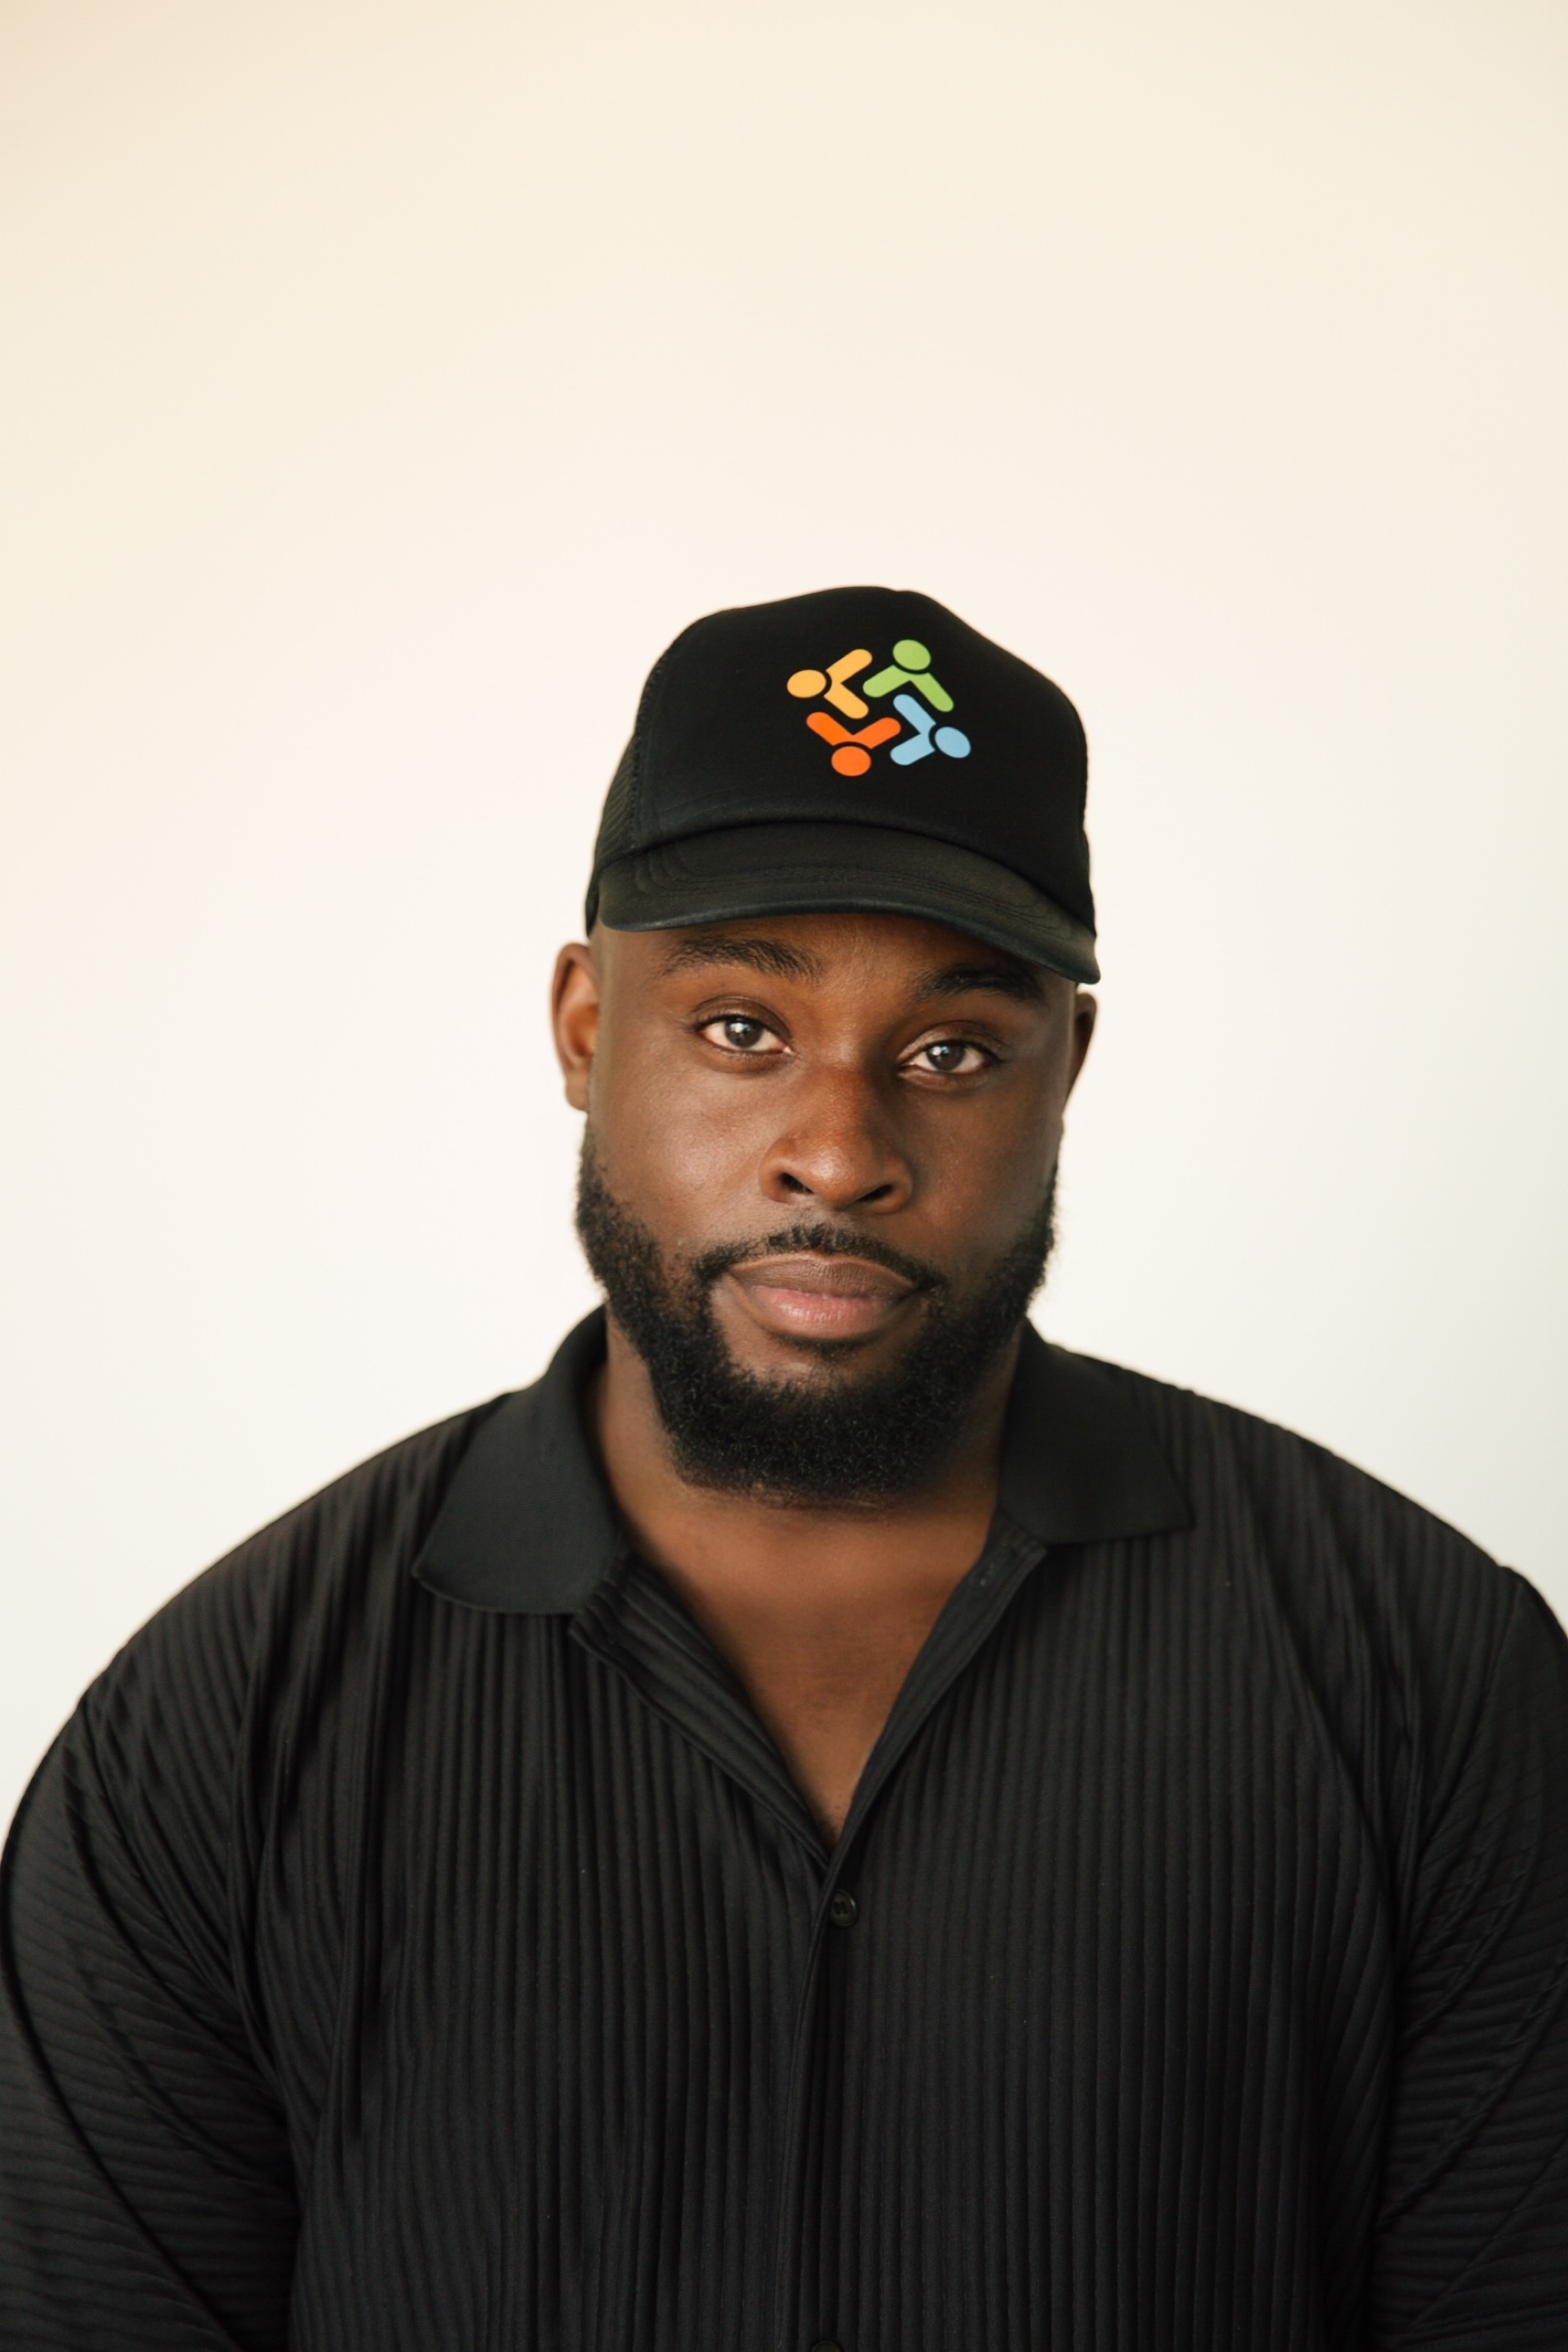
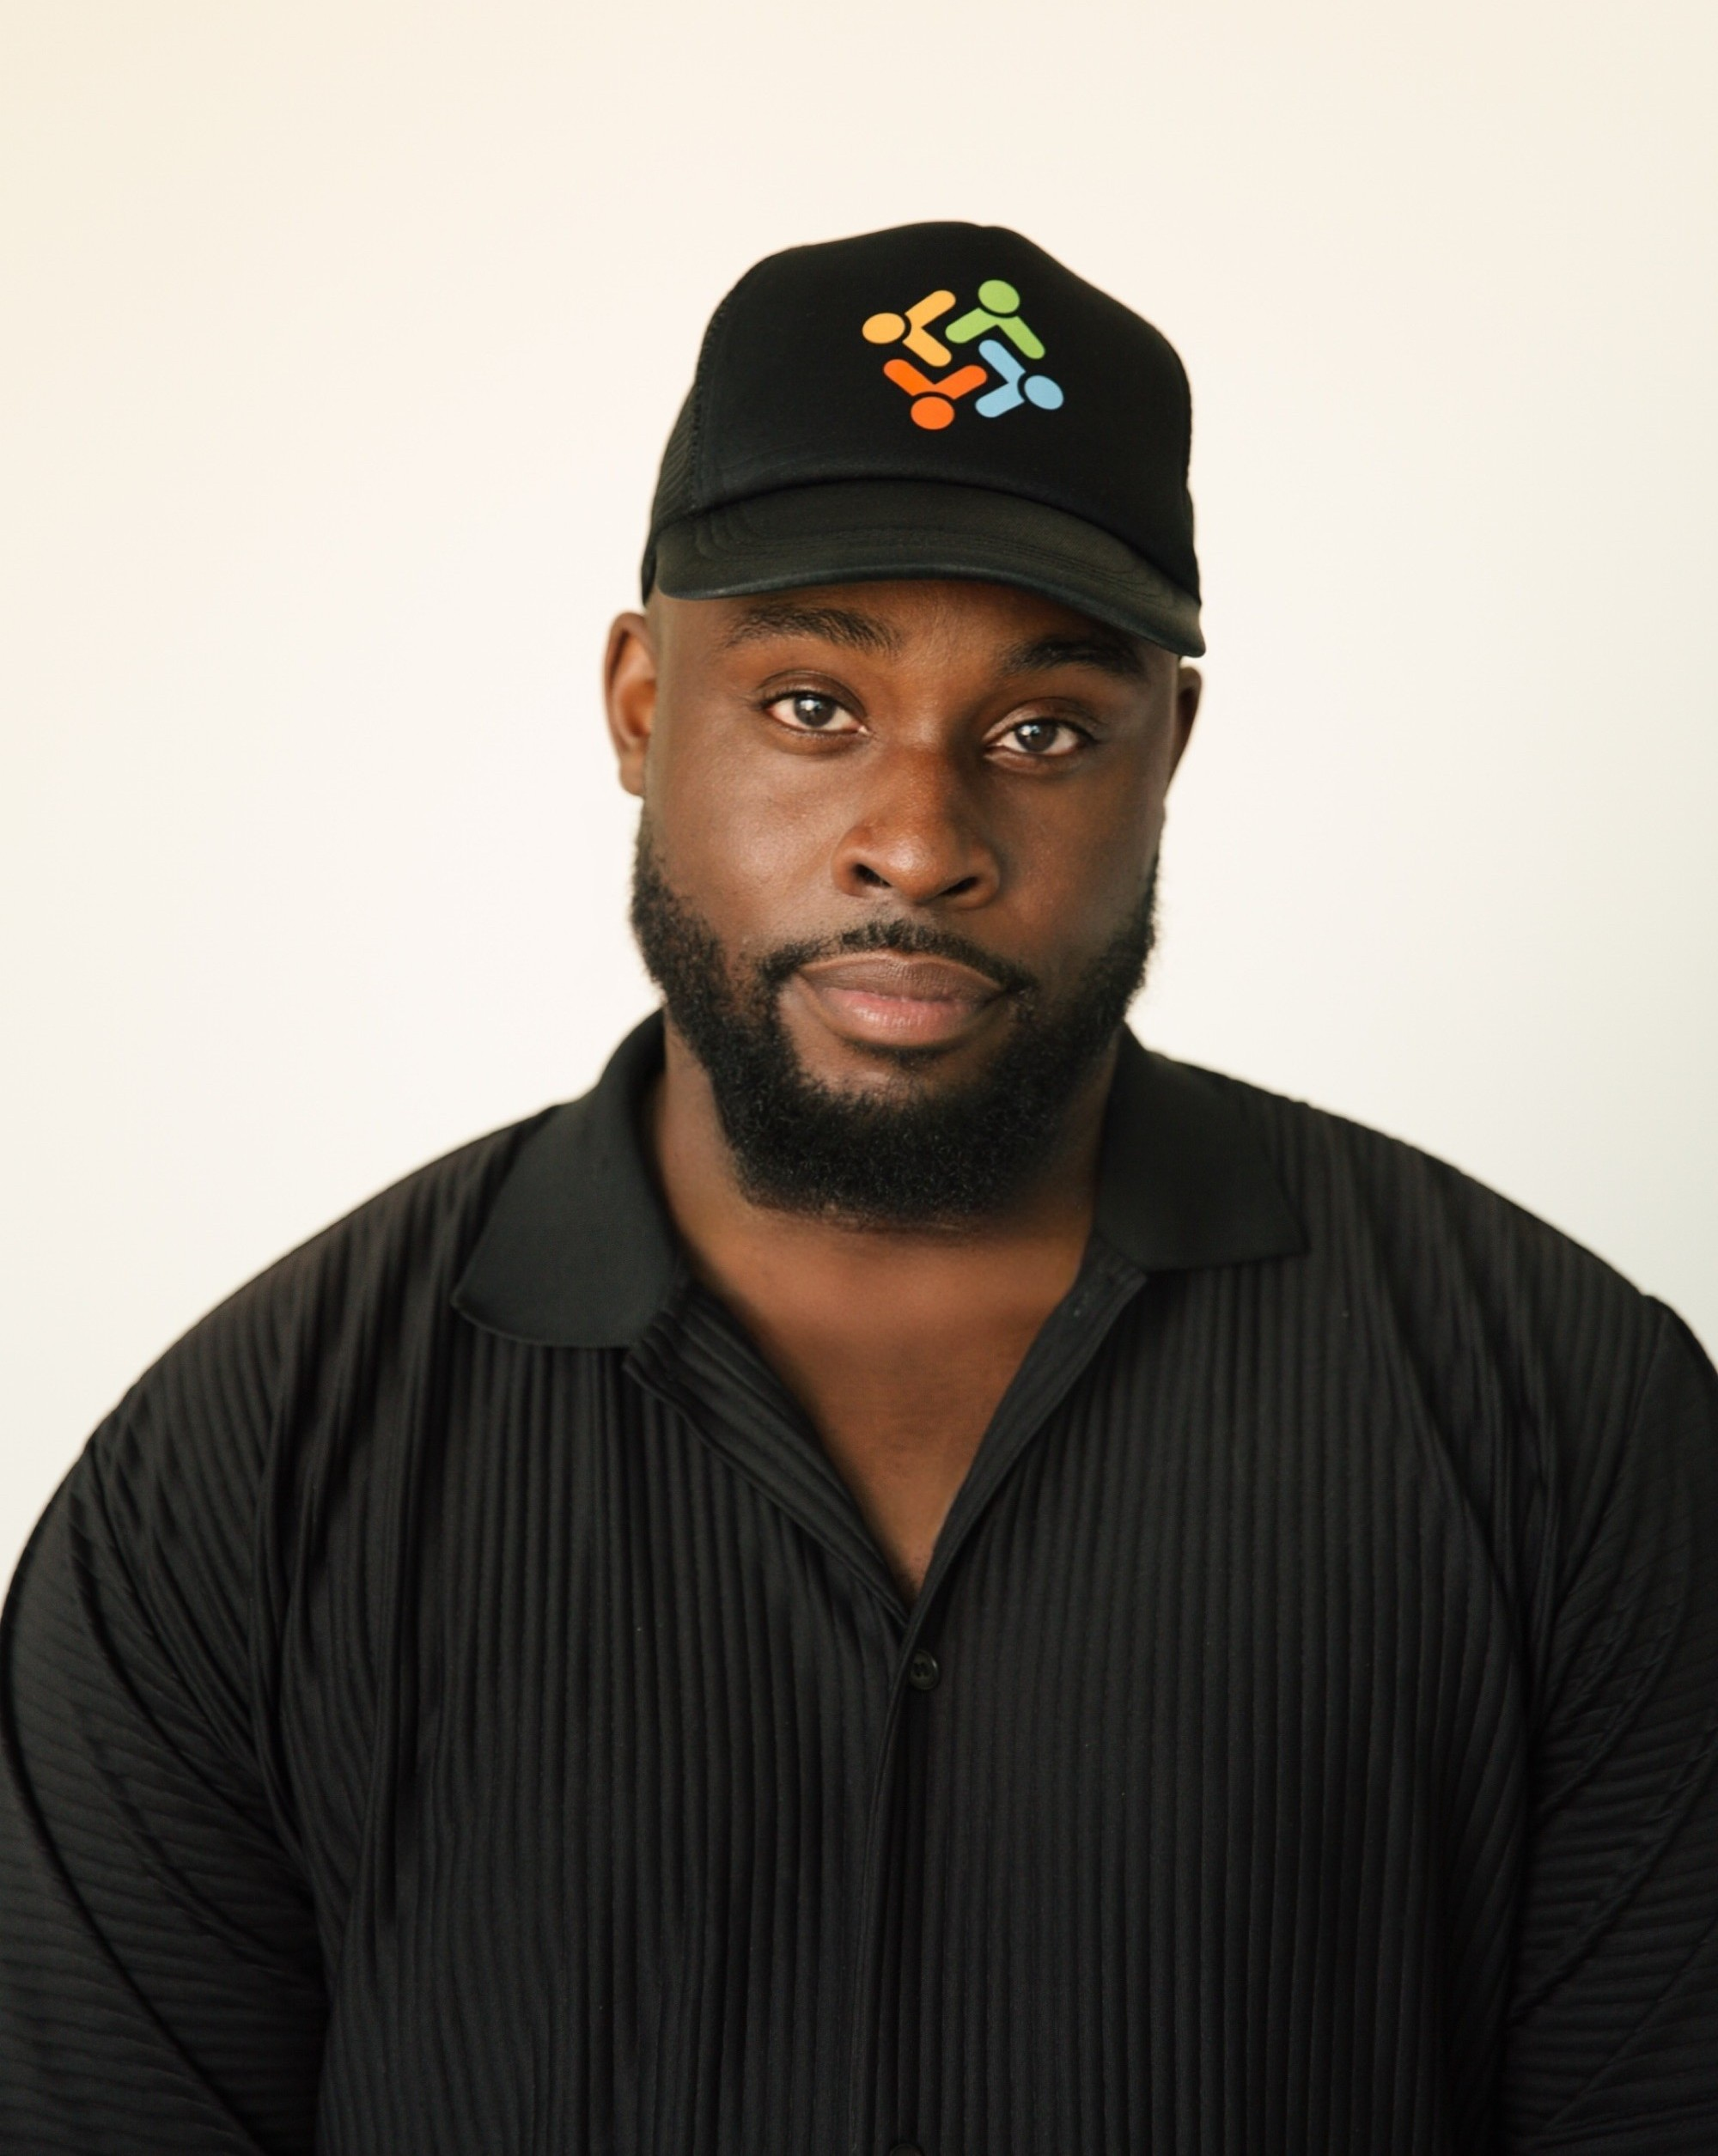
feat: implement projects landing page and add founder asset

Changed region(s): [[0.0, 0.0932, 1.0, 0.9012], [0.062, 0.808, 0.093, 0.839]]

diff --git a/app/projects/page.tsx b/app/projects/page.tsx
@@ -210,9 +210,9 @@ export default function ProjectsPage() {
 
           {/* Main heading — rises up */}
           <FadeUp delay={0.2}>
-            <h1 className="mt-[20px] font-[var(--font-be-vietnam)] text-[38px] font-bold lowercase leading-[1.03] tracking-[-0.9px] text-white sm:text-[56px] sm:tracking-[2px]">
+            <h1 className="mt-[20px] font-[var(--font-be-vietnam)] text-[38px] font-bold lowercase leading-[1.03] tracking-[-0.9px] text-white sm:text-[56px] sm:tracking-[-0.9px]">
               projects that make an{" "}
-              <span className="font-[var(--font-cormorant)] text-[1.15em] sm:text-[72px] font-extralight timesFontFamily italic tracking-[-0.035em] text-[#ff5500]">
+              <span className="font-[var(--font-cormorant)] text-[1.15em] sm:text-[72px] font-extralight timesFontFamily italic tracking-[-0.9px] text-[#ff5500]">
                 impact
               </span>
             </h1>